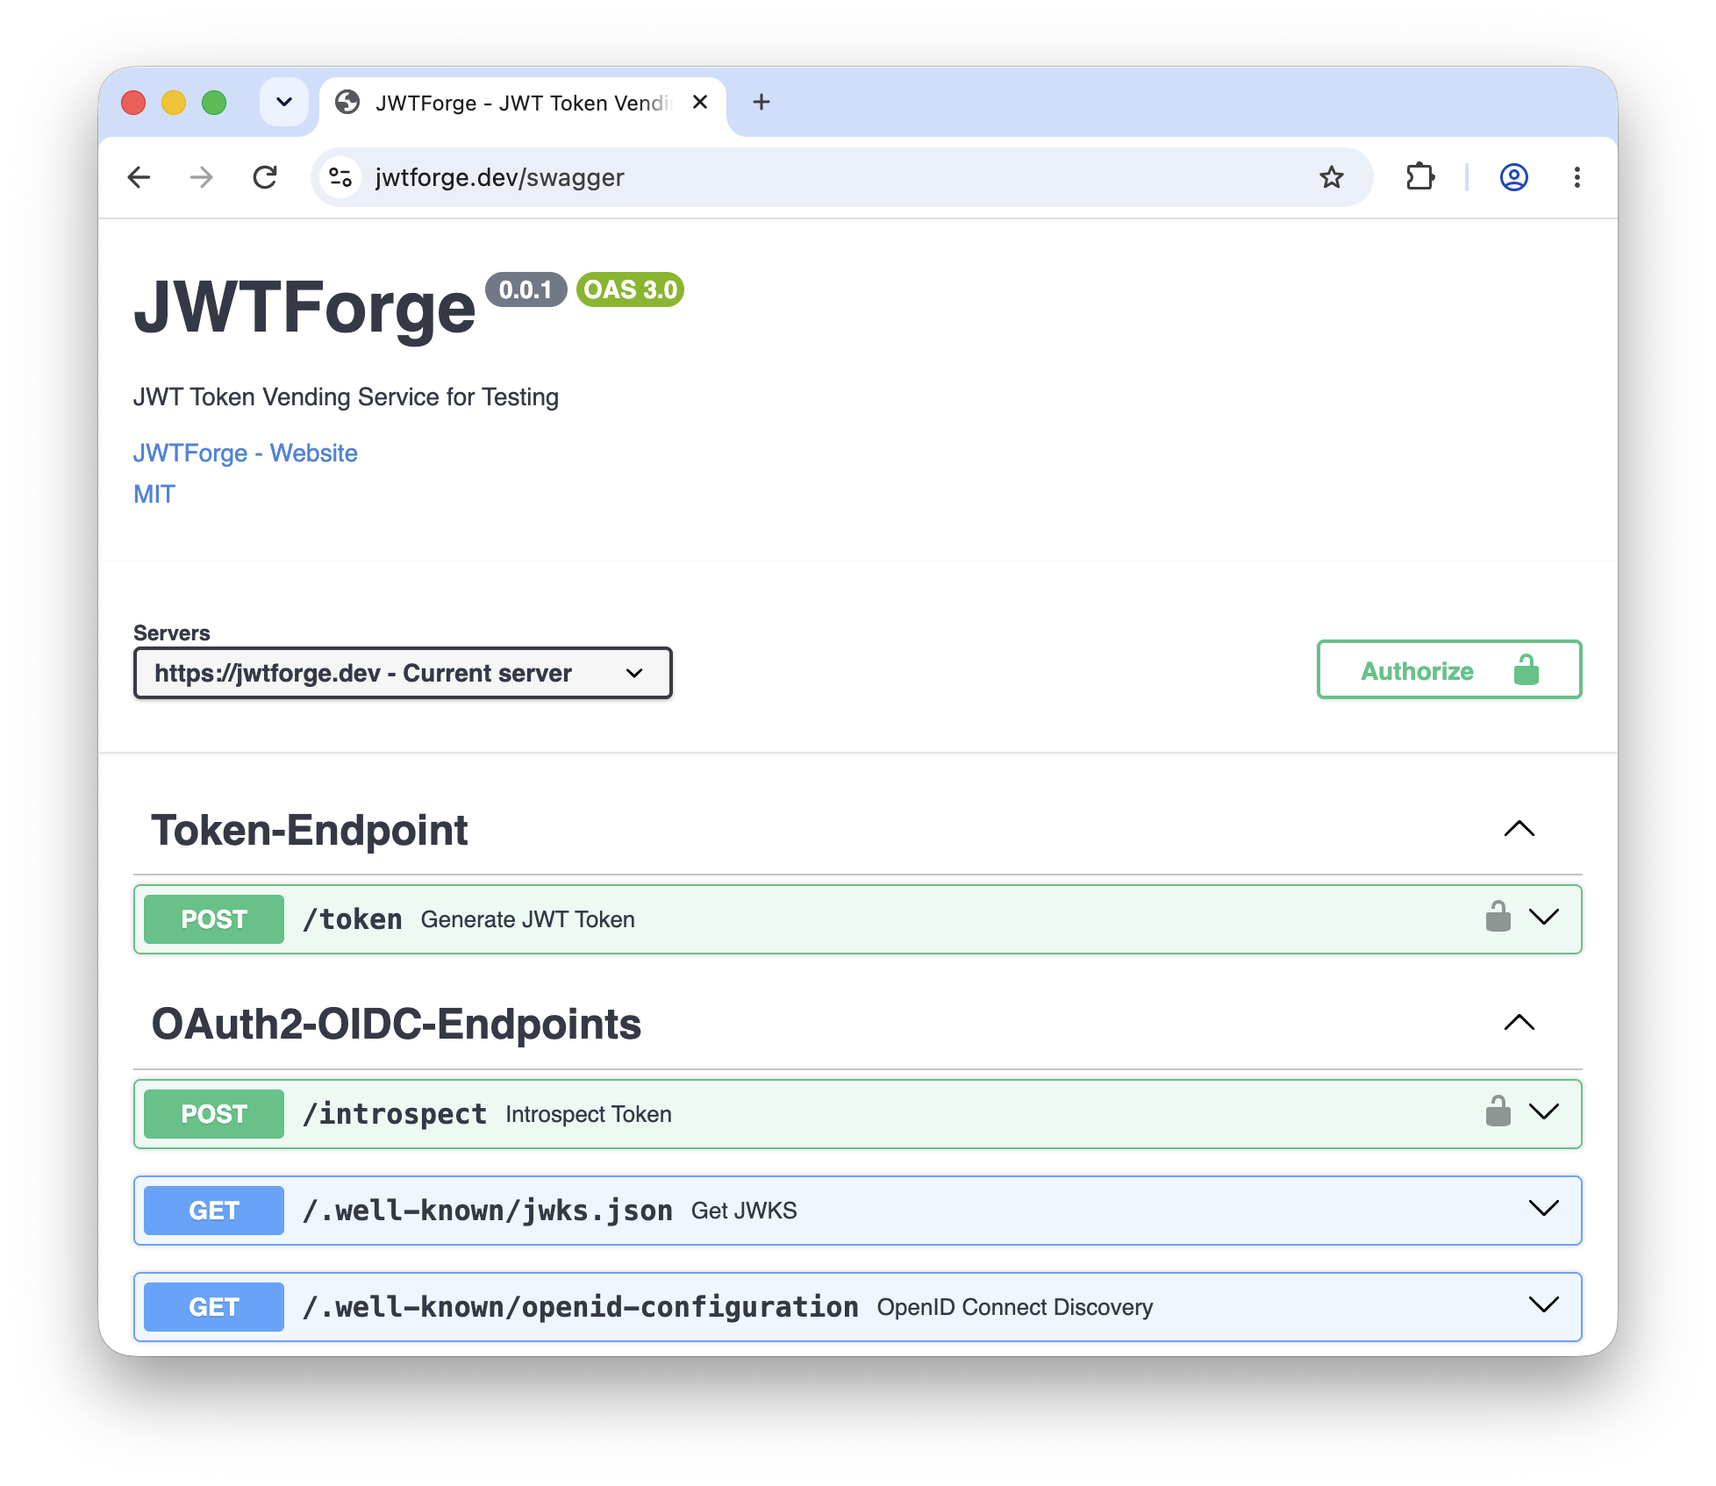
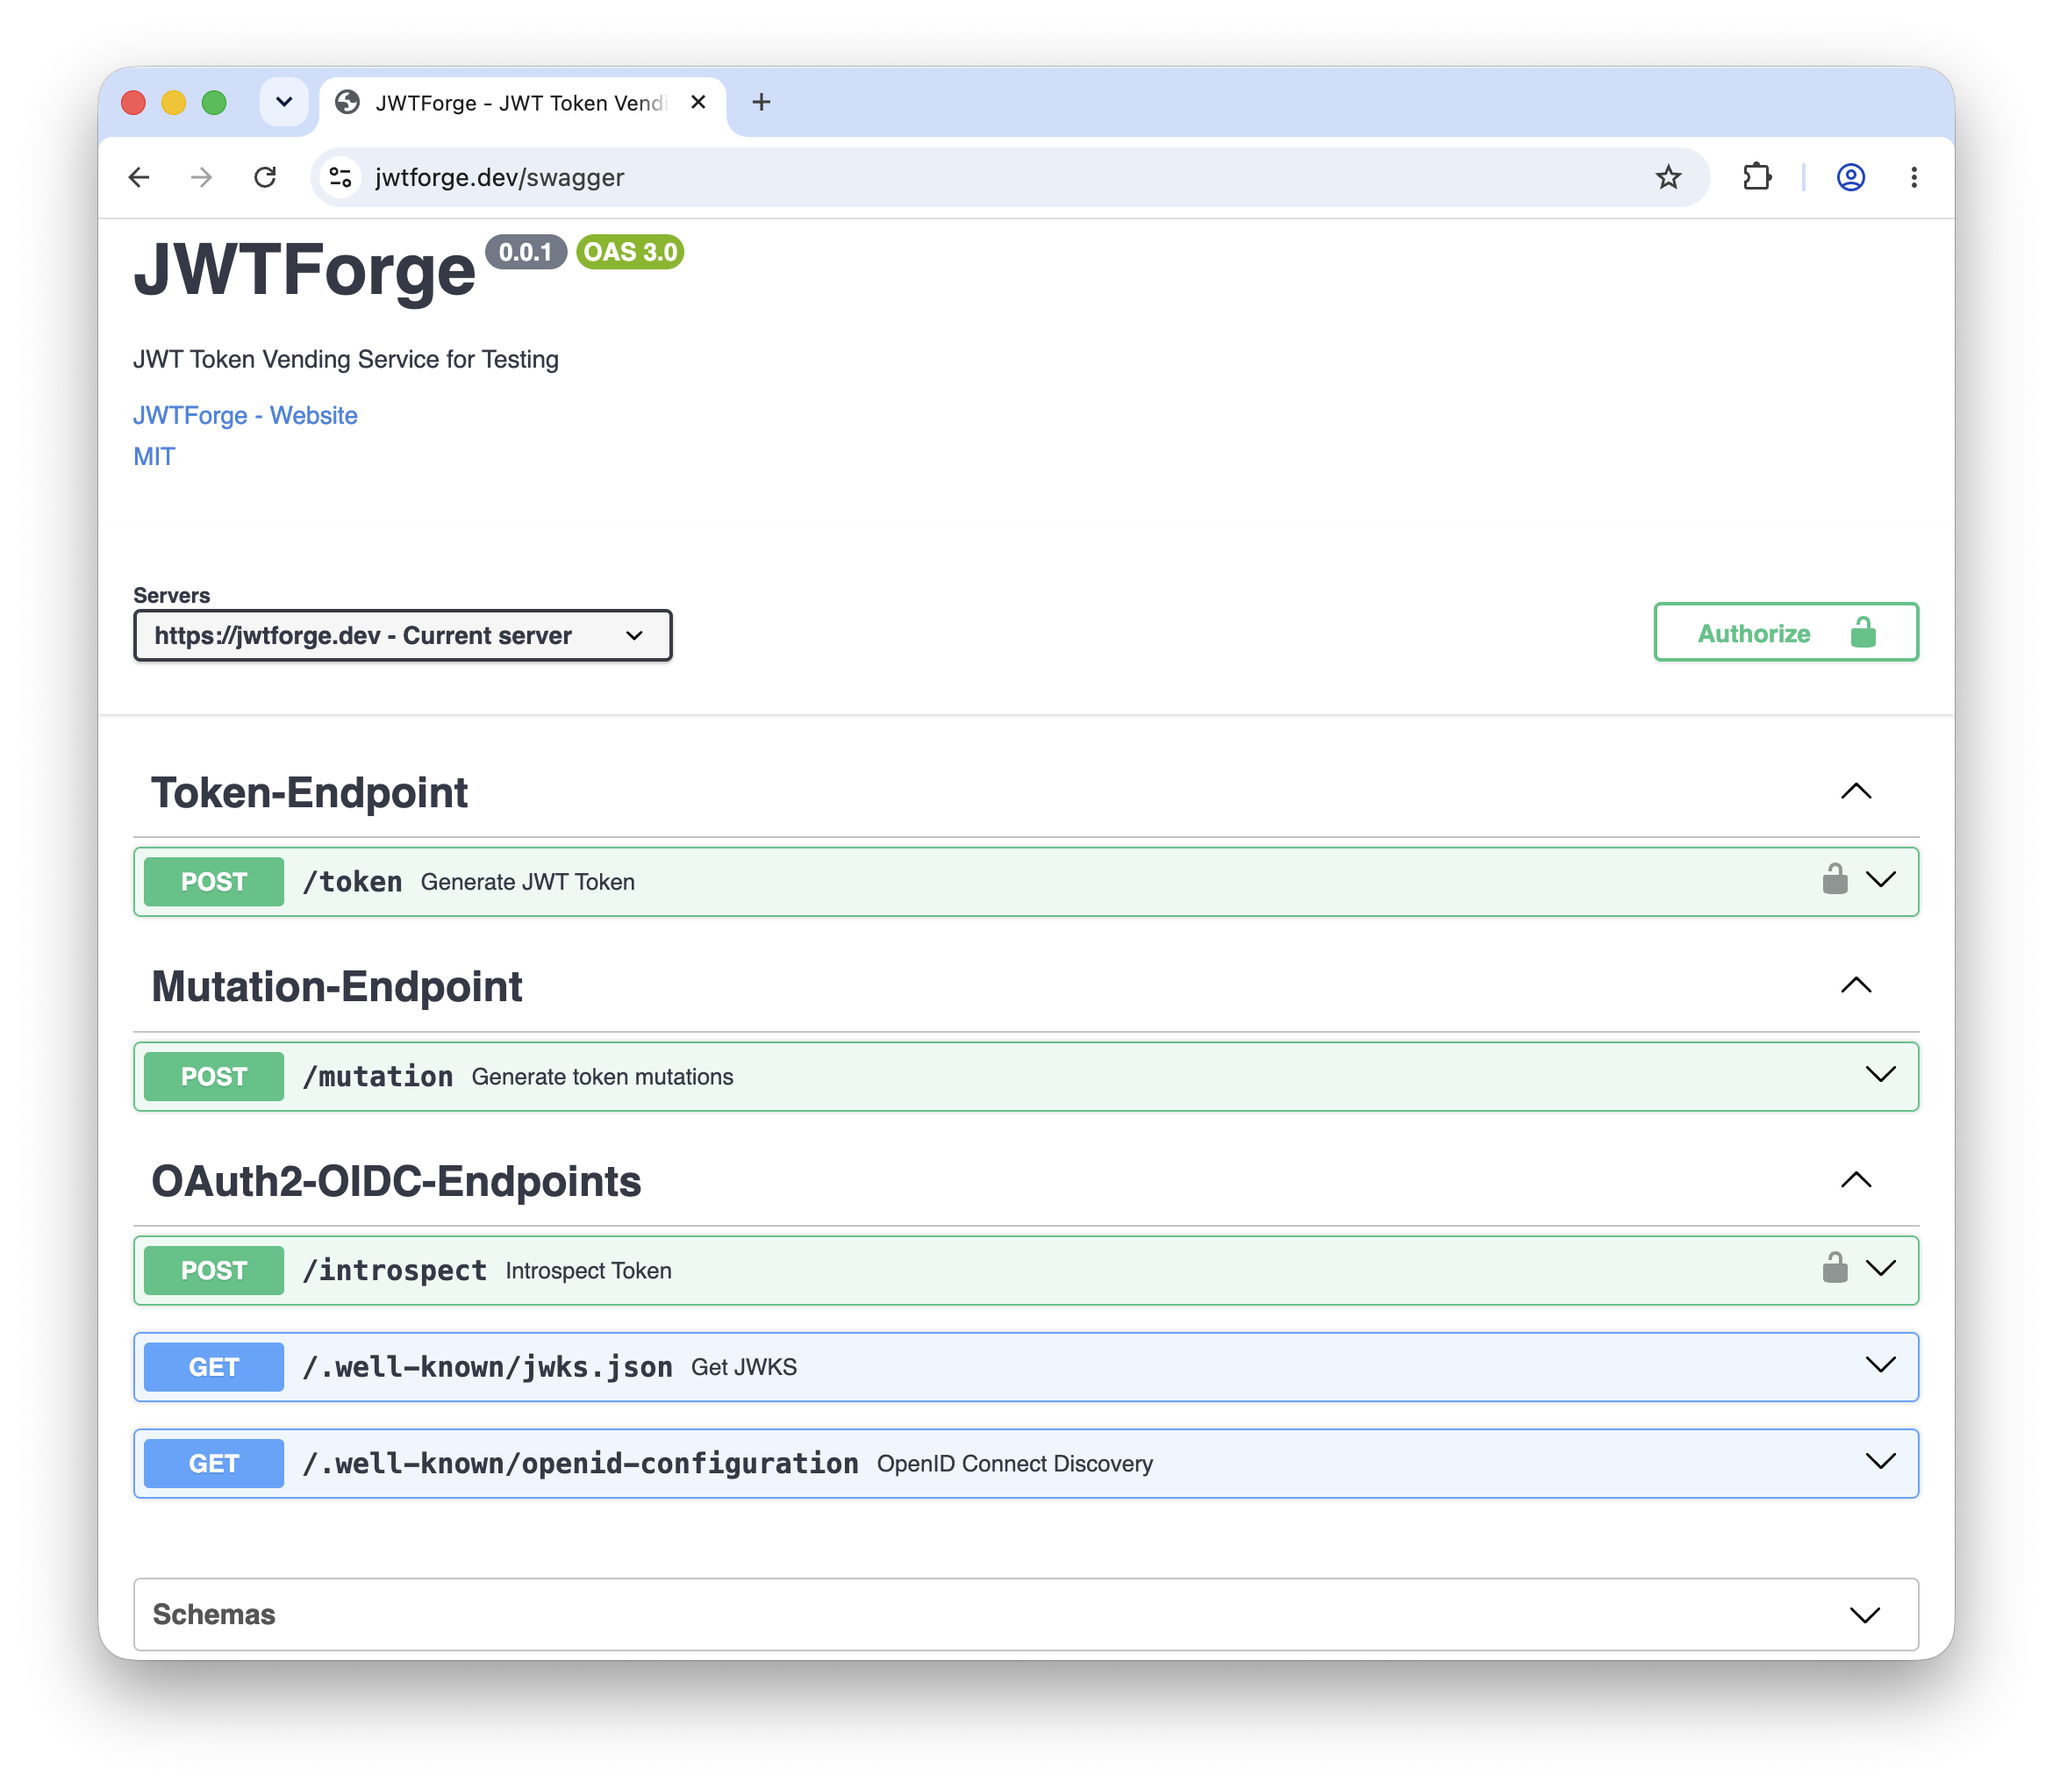
Updated paper

Changed region(s): [[0.0312, 0.0307, 0.9668, 0.9516]]

diff --git a/paper/paper.md b/paper/paper.md
@@ -31,7 +31,7 @@ tags:
 
 # Summary
 
-JWTForge is an open-source HTTP service that programmatically generates cryptographically signed JSON Web Tokens (JWT) for security testing, fuzzing, and integration testing of OAuth2 and OpenID Connect (OIDC) implementations. It can be run locally or deployed to Cloudflare Workers. JWTForge returns signed tokens transformed by one of four testing modes: *compliant* (Faker-generated realistic OIDC tokens), *fuzz* (Big List of Naughty Strings and boundary values), *malicious* (injection payloads), and *grammar* (categorical RFC-derived patterns). It supports three generation approaches — JSON payload, OAuth2 client_credentials [@rfc6749], and RFC 8693 token exchange [@rfc8693] — and exposes OIDC infrastructure endpoints (RFC 7662 introspection [@rfc7662], JWKS [@rfc7517], discovery [@openid_connect_discovery]). JWTForge also generates compact JWTs, flattened JWS JSON Serialization, and general JWS JSON Serialization for testing parser format-confusion defects. A separate mutation endpoint derives header, claim, signature, and format variants from imported or generated tokens, complementing generation for CI/CD integration testing, robustness evaluation, and vulnerability research.
+Security research, systematic fuzzing, and integration testing of OAuth2 and OpenID Connect (OIDC) implementations require controlled JSON Web Token (JWT) corpora that span realistic identities, malformed values, adversarial claims, cryptographic deviations, and serialization boundaries. JWTForge is an open-source HTTP JWT vending service that produces these corpora locally or on Cloudflare Workers. Four modes generate *fake* Faker-backed OIDC identities, *fuzz* values from the Big List of Naughty Strings and boundary cases, *malicious* injection payloads, or *grammar*-derived categorical cases. JWTForge accepts JSON payloads, OAuth2 client-credentials requests [@rfc6749], and RFC 8693 token-exchange requests [@rfc8693]. It emits compact JWTs and flattened or general JWS JSON Serialization, while a separate mutation endpoint derives independent header, claim, signature, and format variants without automatic re-signing. Discovery, JWKS [@rfc7517], and limited RFC 7662-shaped introspection [@rfc7662] support integration experiments. An OpenAPI-based Pentest Generator associates token-level techniques with protected operations. Together, these interfaces enable repeatable CI/CD regression, fuzzing campaigns, black-box measurement, and authorized research on parser, validation, and authorization behavior.
 
 # Statement of need
 
@@ -78,7 +78,7 @@ OIDC infrastructure & $\checkmark$ & $\times$ & $\times$ & $\times$ & $\times$ &
 \hline
 CI/CD integration & $\checkmark$ & Limited & $\times$ & $\times$ & $\checkmark$ & Limited \\
 \hline
-OpenAPI JWT pentest generator & $\checkmark$ & $\times$ & $\times$ & $\times$ & $\times$ & $\times$ \\
+OpenAPI-based Pentest Generator & $\checkmark$ & $\times$ & $\times$ & $\times$ & $\times$ & $\times$ \\
 \hline
 Signature tampering & $\checkmark$ & $\checkmark$ & $\checkmark$ & $\checkmark$ & $\times$ & $\checkmark$ \\
 \hline
@@ -94,7 +94,7 @@ Serverless deployment & $\checkmark$ & $\times$ & $\times$ & $\times$ & $\times$
 
 # Software design
 
-JWTForge is a JavaScript HTTP API for token generation, mutation, and OIDC infrastructure, installable via `npm` or deployable to Cloudflare Workers. Its modules separate request parsing, claim transformation, mutation operations, key management, and response formatting.
+JWTForge is a JavaScript HTTP API for token generation, mutation, and OIDC infrastructure, installable via `npm` or deployable to Cloudflare Workers. It requires Node.js 22 or later and uses the Web Crypto API for RSA-2048/RS256 and P-256/ES256 operations [@w3c_webcrypto]. Its modules separate request parsing, claim transformation, mutation, key management, and response formatting.
 
 ## Token Generation Workflow
 
@@ -102,7 +102,7 @@ Token generation proceeds through five stages.
 
 1. **Request Parsing:** The HTTP request body is parsed to extract JWT claims, metadata fields (`kty`, `mode`, `response_type`, `exclude`, `header_alg`, `header_kid`, `format`), custom claims, and optional structured fields (`header`, `body`, `signature`, `signatures`).
 
-2. **OIDC Scope Processing:** In compliant mode, standard scopes (`openid`, `profile`, `email`, `address`, `phone`) populate corresponding Faker-backed claims [@faker; @openid_connect].
+2. **OIDC Scope Processing:** In `fake` mode, standard scopes (`openid`, `profile`, `email`, `address`, `phone`) populate corresponding Faker-backed claims [@faker; @openid_connect].
 
 3. **Mode-Specific Transformations:** `fake`, `fuzz`, `malicious`, and `grammar` modes generate realistic claims, BLNS/boundary values, injection payloads, or RFC-derived categorical values.
 
@@ -111,7 +111,7 @@ Token generation proceeds through five stages.
 5. **Signing and Response:** Modified claims are assembled with the JWT header and signed using the Web Crypto API [@w3c_webcrypto]. Compact JWT output is the default, while callers can request flattened JWS JSON Serialization or general JWS JSON Serialization via the `format` parameter. For hybrid flows (`response_type=id_token token`), access and ID tokens are generated independently.
 
 
-![JWTForge generation and mutation workflows. Token exchange bypasses generation-mode transforms and issues compact RS256 tokens. Mutation independently transforms an imported or generated source without automatic re-signing. Dashed arrows indicate conditional paths. \label{fig:workflow}](./images/jwtforge-overall-workflow.pdf){width=100%}
+![JWTForge generation and mutation workflows. Token exchange bypasses generation-mode transforms and issues compact RS256 tokens. Mutation independently transforms an imported or generated source without automatic re-signing. Dashed arrows indicate conditional paths. \label{fig:workflow}](./images/jwtforge-overall-workflow-v2.pdf){width=100%}
 
 ## Token Generation and Mutation Approaches
 
@@ -121,17 +121,19 @@ JWTForge supports three generation approaches and a separate mutation endpoint:
 
 2. **OAuth2 Client Credentials Grant (RFC 6749):** Clients authenticate via HTTP Basic auth and request tokens with `grant_type=client_credentials` and optional `scope`/`sub` parameters. Base claims are auto-generated, enabling testing of OAuth2-compliant endpoints and client authentication mechanisms.
 
-3. **Token Exchange (RFC 8693):** Clients submit a subject token (JWT, ID token, or access token) with optional `add_claims`/`remove_claims` modifications, enabling testing of exchange scenarios, delegation flows, and claim transformation without access to the original issuer. The introspection endpoint validates exchanged tokens, completing the lifecycle.
+3. **Token Exchange (RFC 8693):** Clients submit a compact subject token with optional `add_claims`/`remove_claims` transformations and receive a newly signed compact RS256 token. JWTForge decodes rather than authenticates the subject and does not enforce delegation policy, so this path is a testing fixture rather than a production token service.
 
-4. **Token Mutation:** `POST /mutation` applies explicit operation groups to imported or generated tokens, returning one independent variant per group without automatic re-signing. Operations edit headers and claims, remove/replace/truncate signatures, flip signature bits, or convert JWS formats without information loss. General JWS supports per-signature targeting; JWE is unsupported.
+4. **Token Mutation:** `POST /mutation` applies explicit operation groups to imported or generated tokens, returning one independent variant per group without automatic re-signing. Operations edit headers and claims, remove/replace/truncate signatures, flip signature bits, or losslessly convert JWS formats. Untouched encoded segments are preserved, and response metadata identifies signing-input changes. General JWS supports per-signature targeting; JWE is unsupported.
 
 JSON token-generation requests can produce compact JWTs or JWS JSON Serialization outputs; token exchange issues compact RS256 tokens. JSON serialization enables format-confusion testing: a vulnerable JWT implementation misidentifies the JWT serialization format, allowing an attacker to transform an otherwise legitimate compact-format JWT into a JSON-format JWS, insert forged payload material, and potentially achieve arbitrary token forgery. This corresponds to the polyglot-token class in prior JWT research [@tervoort2023three].
 
 ## Workflow Scenarios
 
-JWTForge supports two operational patterns (Figure \ref{fig:cicd}, Figure \ref{fig:researcher}). In CI/CD, a commit triggers local API and JWTForge deployment; Postman/Newman runs compliant, fuzz, malicious, and format-confusion tests, gating promotion to beta, gamma, and production. In security research, JWTForge generates adversarial tokens across all four modes and multiple JOSE serializations to probe algorithm confusion, format confusion, injection, and authorization bypass; researchers analyze target-API responses to produce reproducible, responsibly disclosed findings.
+JWTForge supports two operational patterns (Figure \ref{fig:cicd}, Figure \ref{fig:researcher}). In CI/CD, a commit triggers local API and JWTForge deployment; Postman/Newman runs `fake`, fuzz, malicious, and format-confusion checks before promotion. In authorized research, JWTForge generates adversarial tokens across all four modes and multiple JOSE serializations; researchers compare target responses with an accepted baseline to investigate parser, validation, injection, and authorization behavior.
 
-Its OpenAPI JWT pentest generator discovers protected endpoints from API specifications, derives authentication and authorization test plans, and programmatically runs JWT vulnerability probes against each operation to validate issuer, audience, scope, role, signature, key, and format-confusion handling in target services.
+Its OpenAPI-based Pentest Generator discovers protected operations, derives authentication and authorization assessment plans, and runs bounded probes for issuer, audience, scope, role, signature, key, and format handling.
+
+Two curated targets demonstrate these paths. A FastAPI Service uses Postman/Newman collections to exercise authentication, scopes, roles, permissions, mixed policies, and object ownership with JWTForge tokens. A disposable Express PetStore Service validates JWTForge signatures and enforces issuer, audience, expiration, scopes, roles, and a custom tenant claim; its OpenAPI 3.0 contract drives the Pentest Generator. Together, they cover curated request collections and specification-derived assessment across two application frameworks.
 
 ![CI/CD integration: generation probes and optional custom mutation batches test target decisions against a baseline before promotion. \label{fig:cicd}](./images/jwtforge-cicd-workflow.pdf){width=100%}
 
@@ -141,7 +143,7 @@ Its OpenAPI JWT pentest generator discovers protected endpoints from API specifi
 
 JWTForge enables several lines of research on authentication, authorization, and microservice observability that currently lack a programmable token generation infrastructure.
 
-**Observability research in microservice architectures.** Empirical studies of microservices — collection of logs, metrics, and traces under authentication load — require reproducible token streams without the confounders of production identity providers [@bakhtin2025lo2; @nugraha2023performance]. JWTForge provides deterministic generation at sustained throughput (586 requests/second, 12 ms mean latency, zero error rate across 74,315 requests on a Mac M2 Pro), enabling controlled studies of authentication overhead and trace propagation across OAuth2-protected service meshes.
+**Observability research in microservice architectures.** Empirical studies of logs, metrics, and traces under authentication load require locally controlled token streams without production identity-provider confounders [@bakhtin2025lo2; @nugraha2023performance]. A documented local benchmark produced 586 requests/second with 12 ms mean latency and no errors across 74,315 requests on an Apple M2 Pro. This implementation observation is not a cross-system or hosted-worker comparison.
 
 **Security evaluation and vulnerability discovery.** Researchers studying JWT performance and validation defects often construct ad hoc corpora [@rahmatulloh2019performance; @yang2026token; @nugraha2023performance]. JWTForge supplies reproducible realistic, stochastic, adversarial, and categorical token sets. Its malicious mode, grammar mode, and header transformations operationalise key confusion [@xu2023jwtkey], injection, format-confusion, and claim-handling tests as API parameters.
 
@@ -149,7 +151,7 @@ JWTForge enables several lines of research on authentication, authorization, and
 
 # Availability
 
-JWTForge is freely available from [GitHub](https://github.com/abhishektiwari/jwtforge) under the MIT license, with interactive OpenAPI documentation. The software can be installed locally via via `npm install -g abhishektiwari/jwtforge` for CLI use or CI/CD automation, or deployed with one click to Cloudflare Workers for self-hosted access. A public hosted instance is available at [https://jwtforge.dev](https://jwtforge.dev) for immediate browser-based token generation and testing without installation.
+JWTForge is freely available from [GitHub](https://github.com/abhishektiwari/jwtforge) under the MIT license, with interactive OpenAPI documentation. The software can be installed locally via `npm install -g abhishektiwari/jwtforge` for CLI use or CI/CD automation, or deployed with one click to Cloudflare Workers for self-hosted access. A public hosted instance is available at [https://jwtforge.dev](https://jwtforge.dev) for immediate browser-based token generation and testing without installation.
 
 # AI usage disclosure
 
